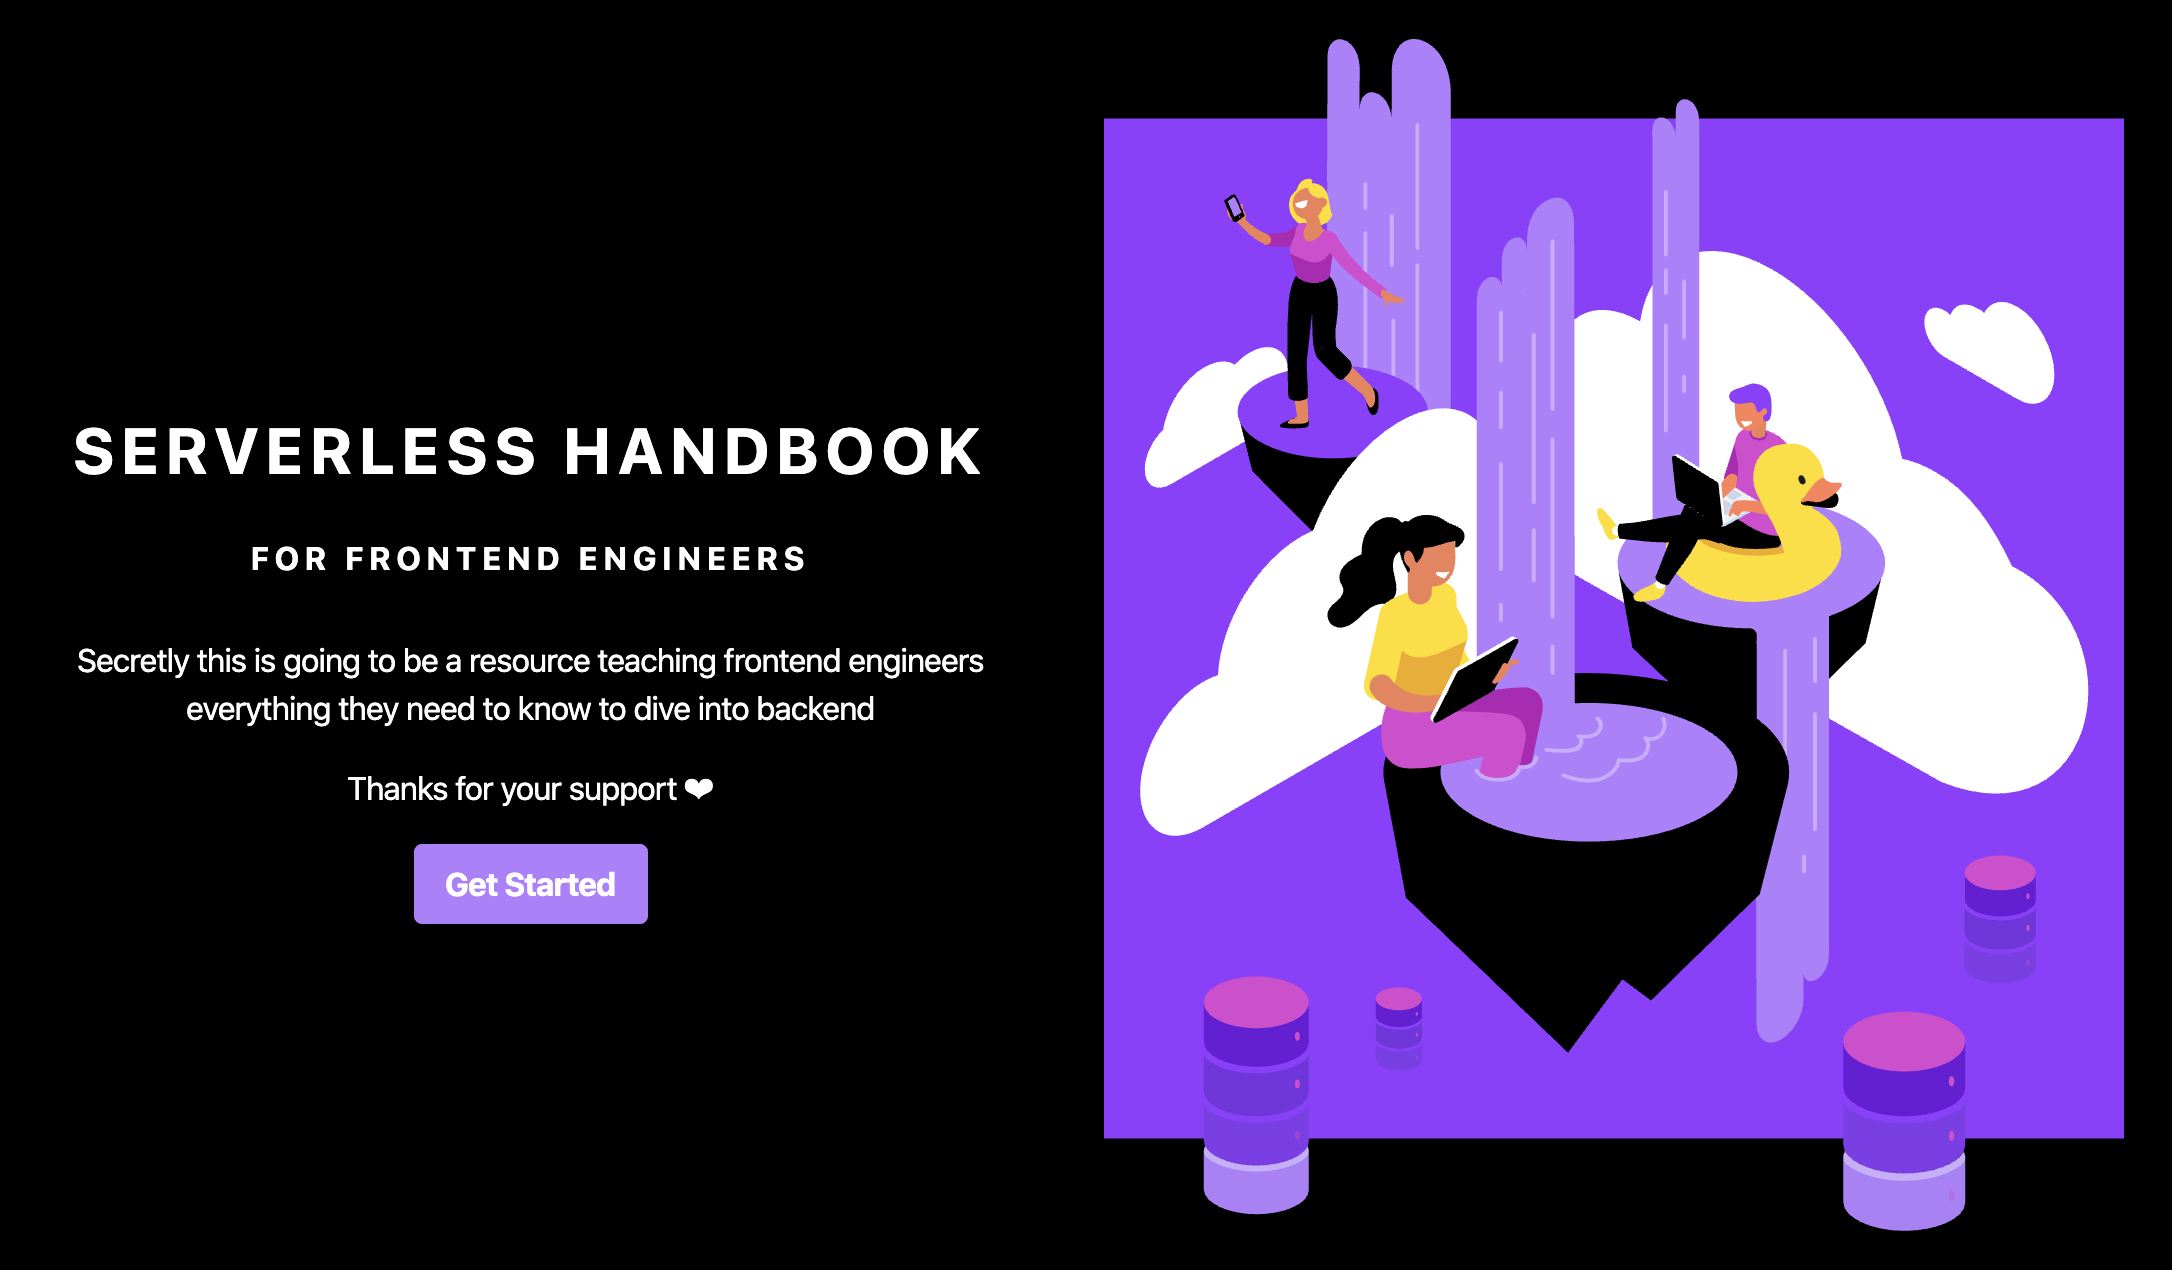
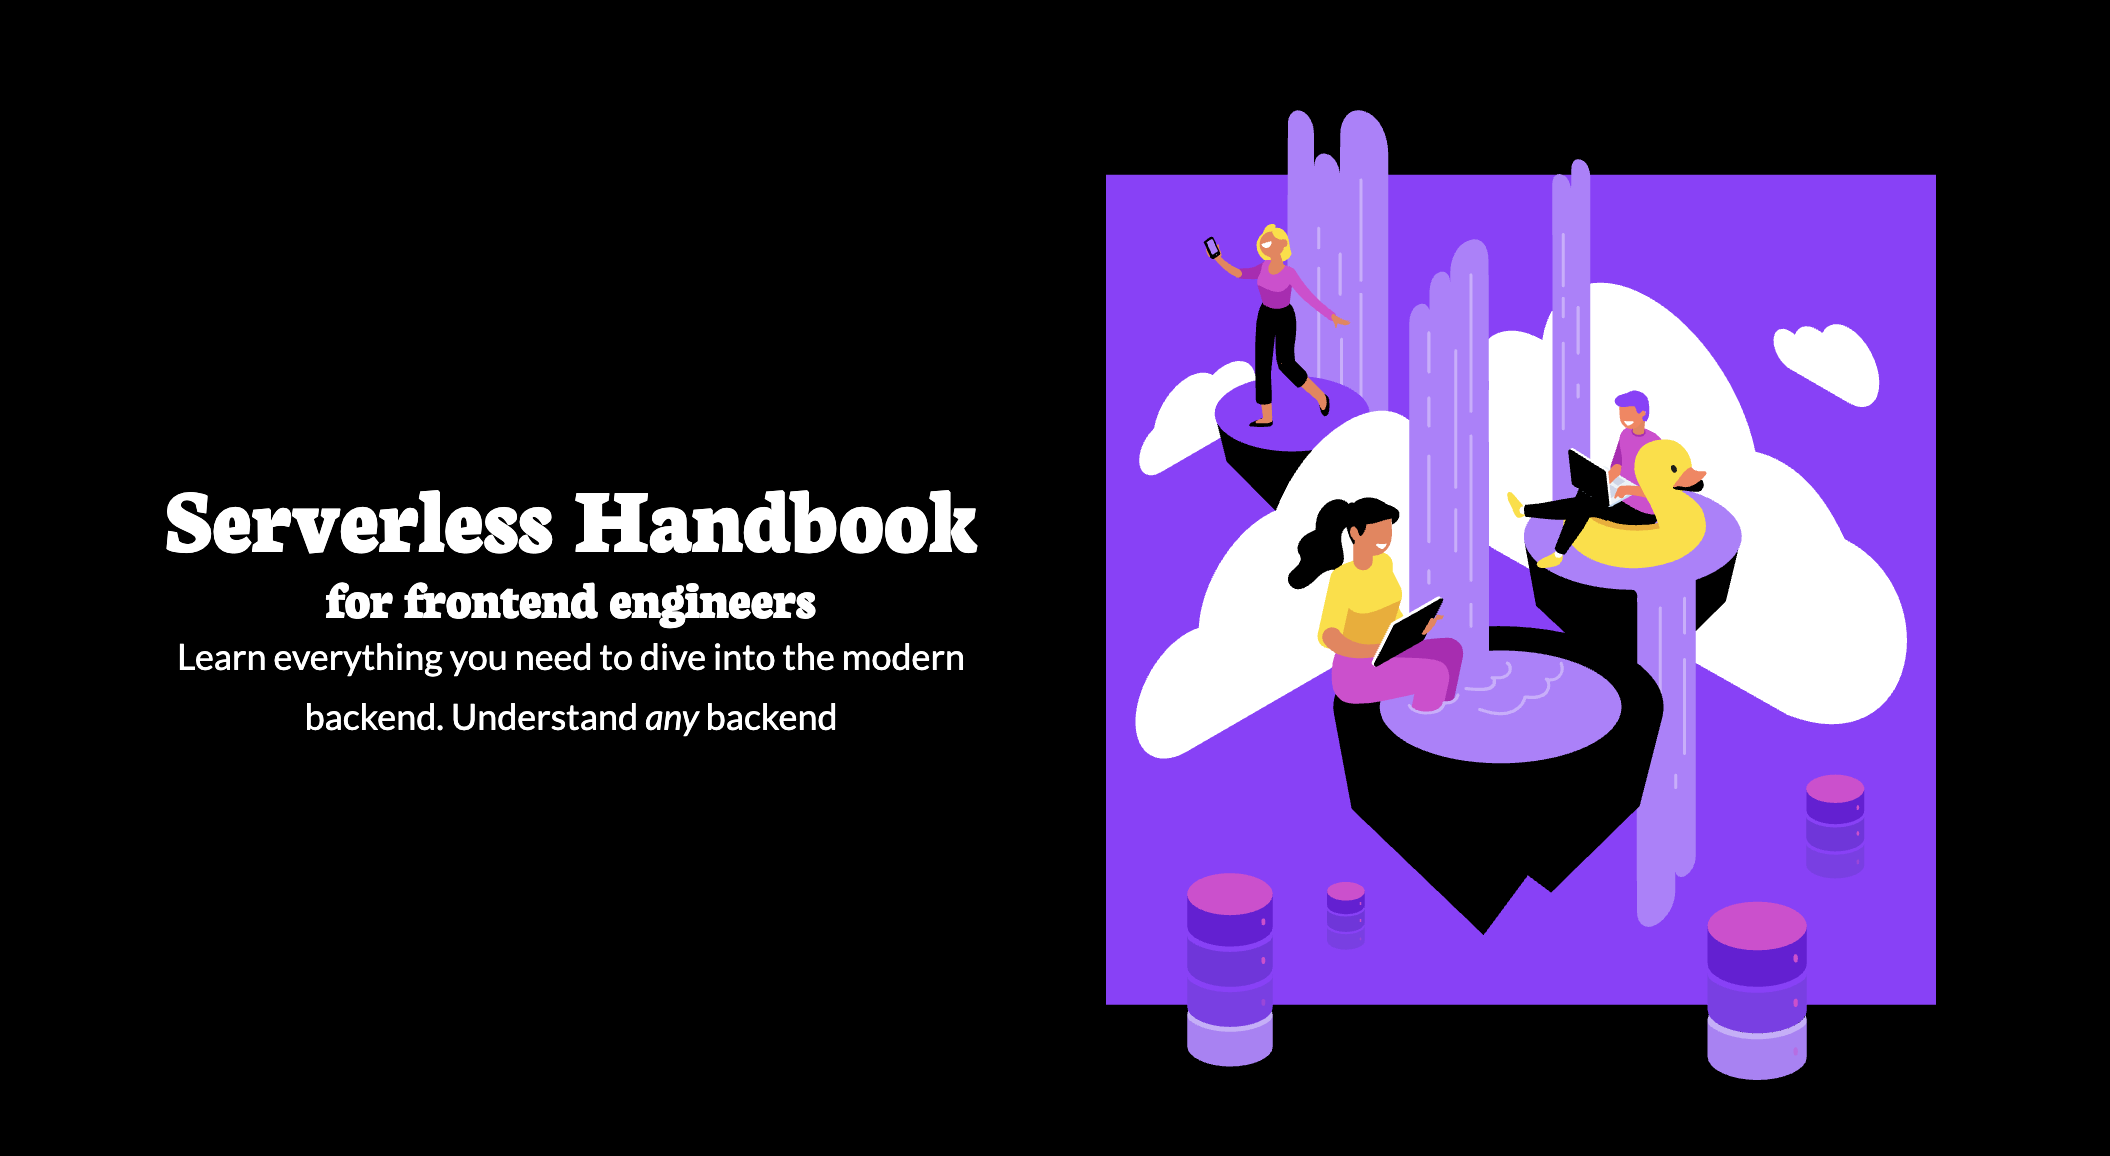
Update card

diff --git a/gatsby-config.js b/gatsby-config.js
@@ -1,7 +1,7 @@
 module.exports = {
   siteMetadata: {
     title: `Serverless Handbook for Frontend Engineers`,
-    description: `Learn everything you need to dive into modern backend`,
+    description: `Learn everything you need to dive into modern backend. Understand any backend.`,
     author: `@swizec`,
     siteUrl: `https://serverlesshandbook.dev/`,
     courseFirstLesson: `/getting-started`,
@@ -13,7 +13,8 @@ module.exports = {
       options: {
         name: "Serverless Handbook for Frontend Engineers",
         short_name: "Serverless Handbook for Frontend Engineers",
-        description: "Learn everything you need to dive into modern backend",
+        description:
+          "Learn everything you need to dive into modern backend. Understand any backend.",
         start_url: "/",
         background_color: "#fff",
         theme_color: "#FF002B",

diff --git a/src/components/home-title.js b/src/components/home-title.js
@@ -19,8 +19,8 @@ const HomeTitle = () => (
         <Text sx={{ fontSize: 4 }}>for frontend engineers</Text>
       </Heading>
       <Text>
-        Learn everything you need to dive into the modern backend. And a few
-        tricks that help with <em>any</em> backend
+        Learn everything you need to dive into the modern backend. Understand{" "}
+        <em>any</em> backend
       </Text>
 
       <Box sx={{ mt: 10 }}>
